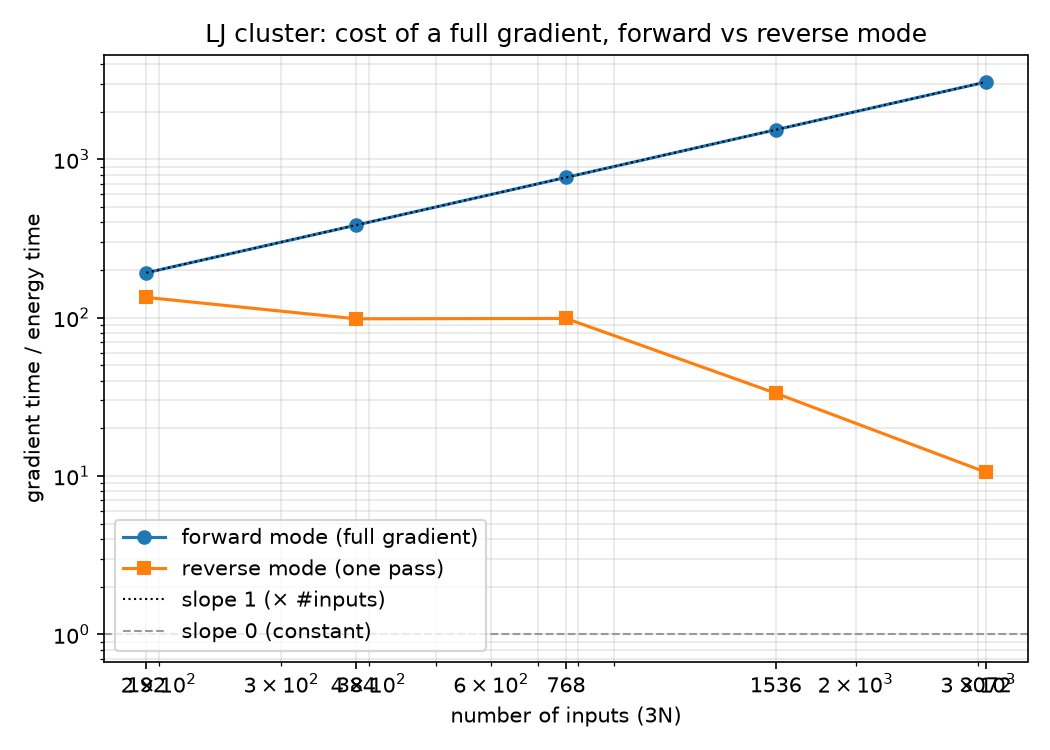
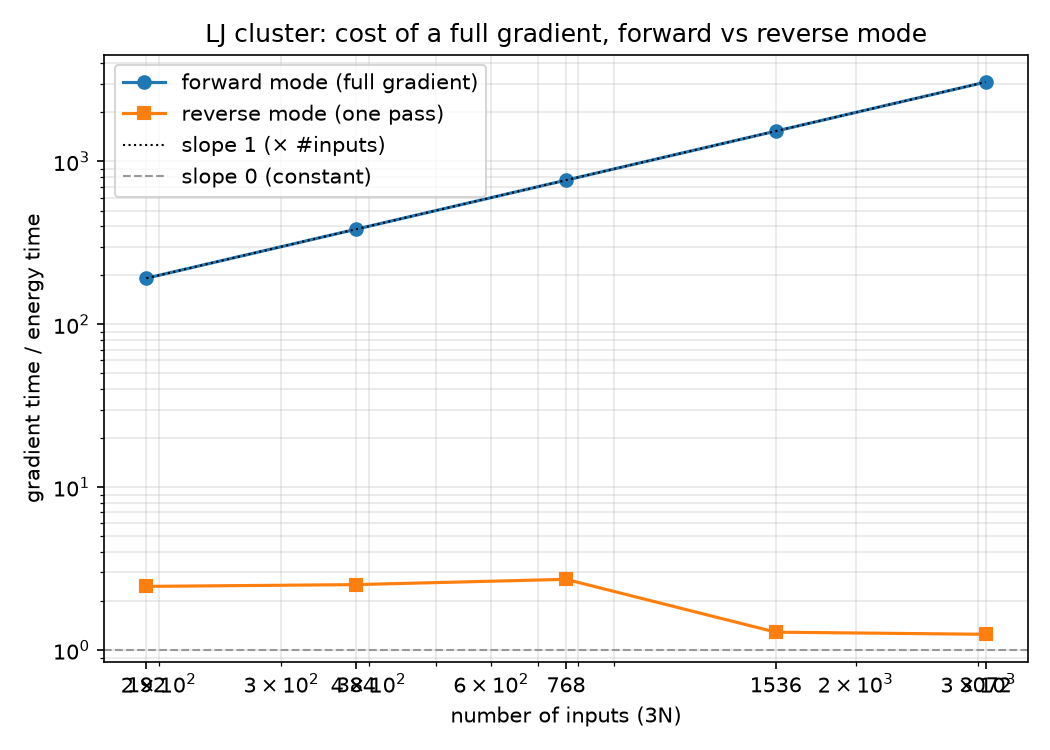
week5: time AD modes after JIT warmup, cleaner scaling plot

diff --git a/week5/scripts/scaling_ad.py b/week5/scripts/scaling_ad.py
@@ -88,6 +88,7 @@ for n in SIZES:
     ref = analytic_forces(pos)
 
     # --- reverse mode: one pass gives all 3N components ---------------
+    grad_rev(x).block_until_ready()  # JIT-compile before timing
     t0 = time.perf_counter()
     g_rev = grad_rev(x).block_until_ready()
     t_rev = time.perf_counter() - t0
@@ -95,6 +96,8 @@ for n in SIZES:
     # --- forward mode: 3N passes for the full gradient ----------------
     # time TIMED_DIRECTIONS unit directions, then scale by 3N / timed
     dirs = np.eye(3 * n)[:TIMED_DIRECTIONS]
+    _, warm = jax.jvp(energy_flat, (x,), (jnp.asarray(dirs[0]),))
+    warm.block_until_ready()  # JIT-compile before timing
     t_start = time.perf_counter()
     for k in range(TIMED_DIRECTIONS):
         _, g_k = jax.jvp(energy_flat, (x,), (jnp.asarray(dirs[k]),))
